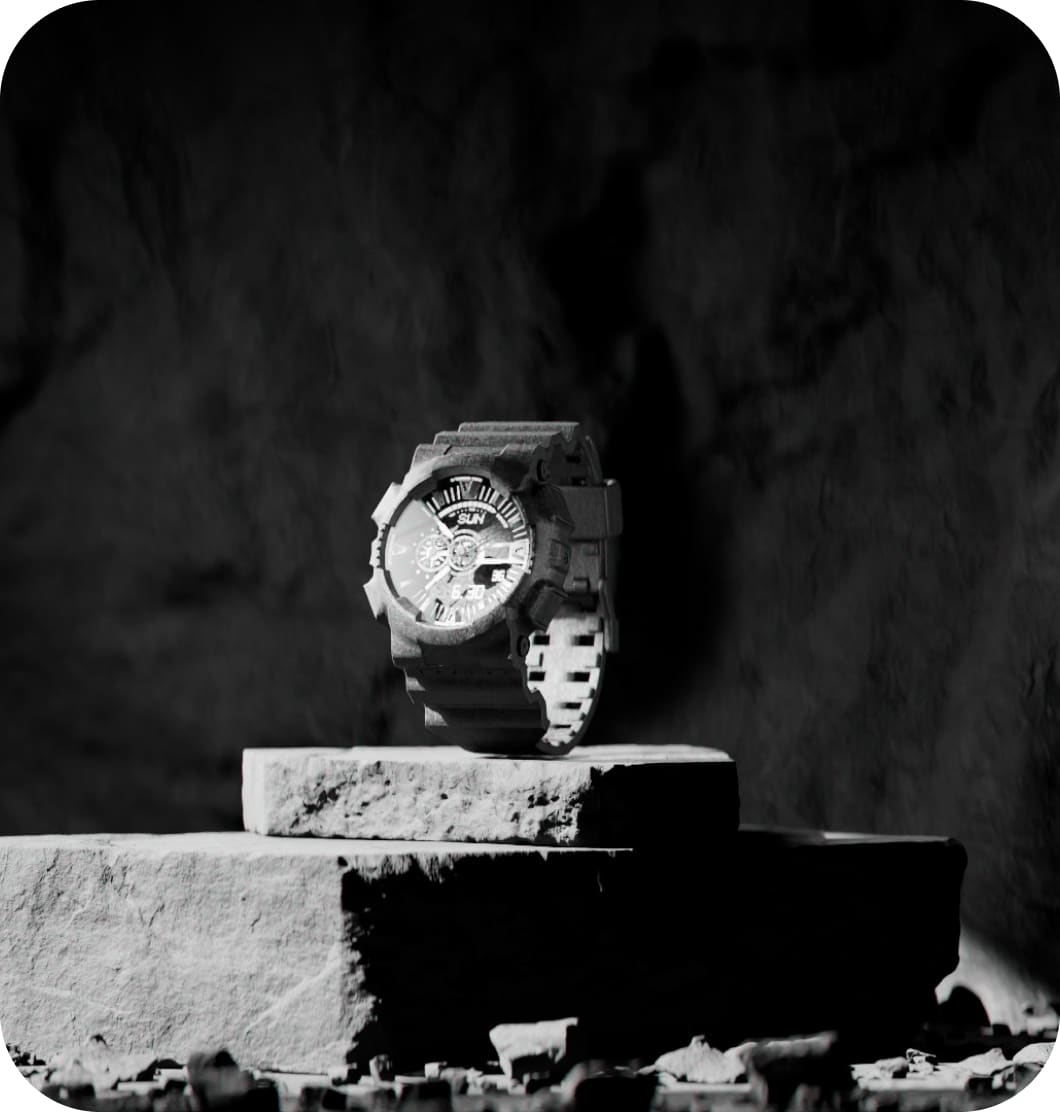
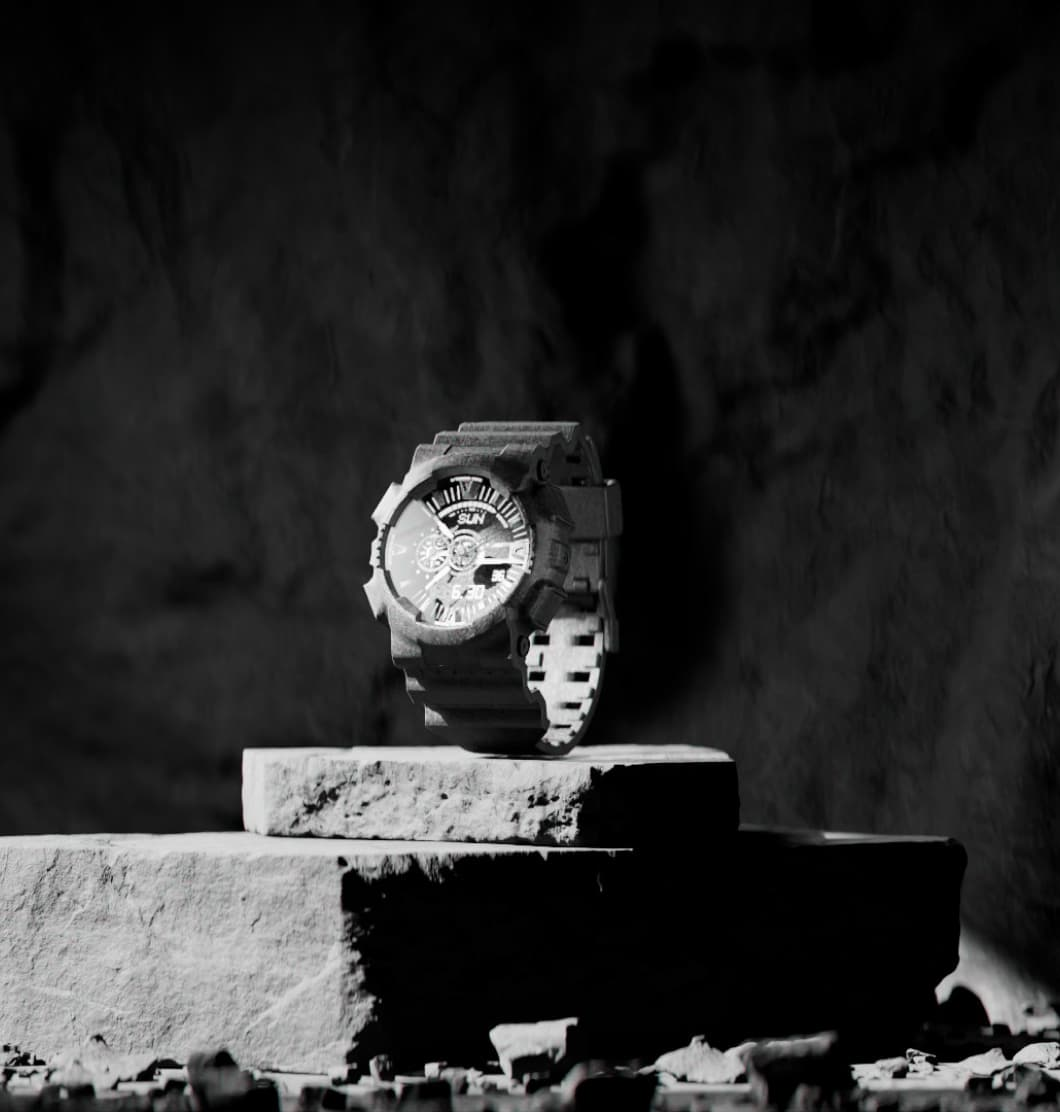
photo border-radius fixed

diff --git a/src/css/contact-us.css b/src/css/contact-us.css
@@ -81,6 +81,10 @@
     background-color: #1f3cd4;
 }
 
+.contact-us-image {
+    border-radius: 30px;
+}
+
 @media only screen and (min-width:768px) {
     .contact-form {
         border-radius: 50px;
@@ -120,6 +124,10 @@
         padding: 17px 63px;
         min-width: 160px;
         height: 52px;
+    }
+
+    .contact-us-image {
+        border-radius: 50px;
     }
 }
 

diff --git a/src/partials/contact-us.html b/src/partials/contact-us.html
@@ -67,7 +67,11 @@
               ./img/contact-us/mobile@2x.jpg 2x
             "
           />
-          <img src="/src/img/contact-us/mobile.jpg" alt="watch photo" />
+          <img
+            class="contact-us-image"
+            src="/src/img/contact-us/mobile.jpg"
+            alt="watch photo"
+          />
         </picture>
       </div>
     </div>
